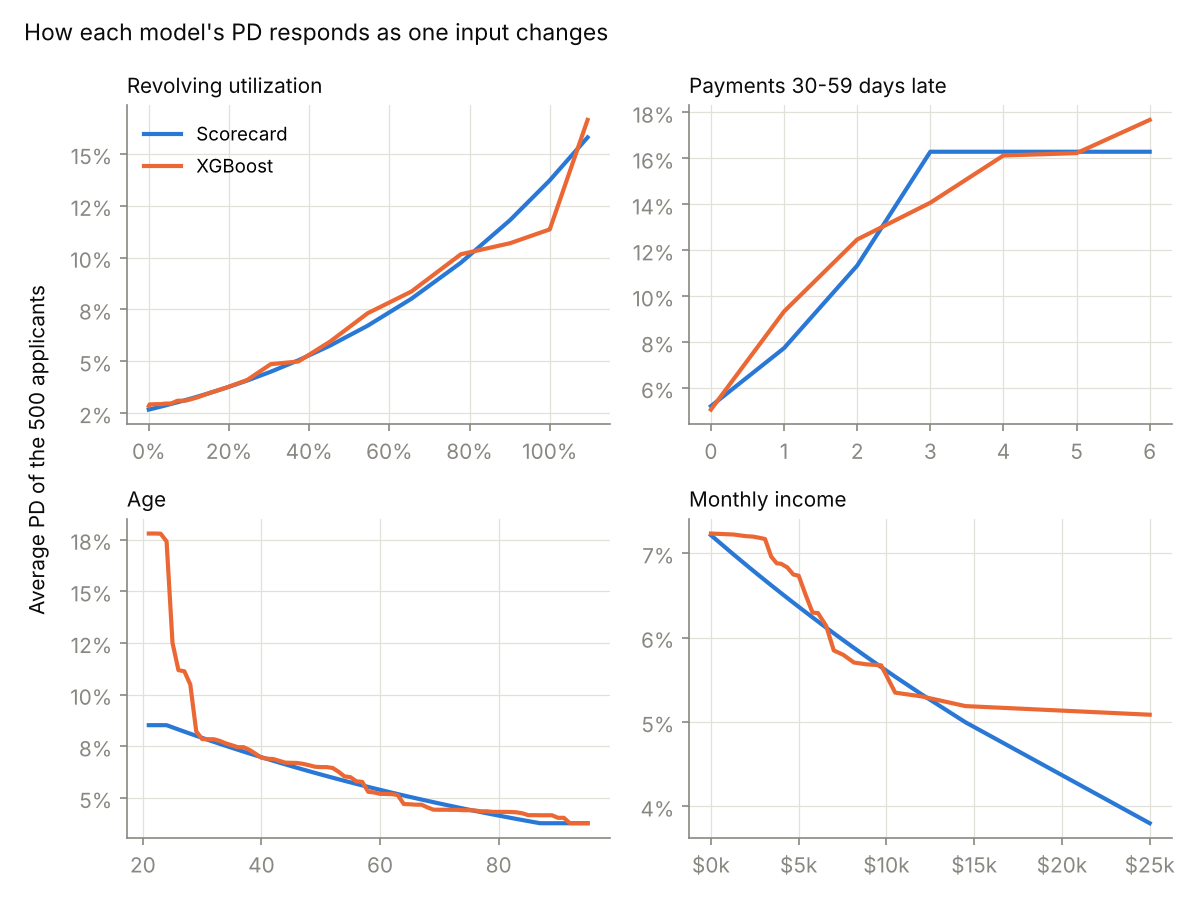
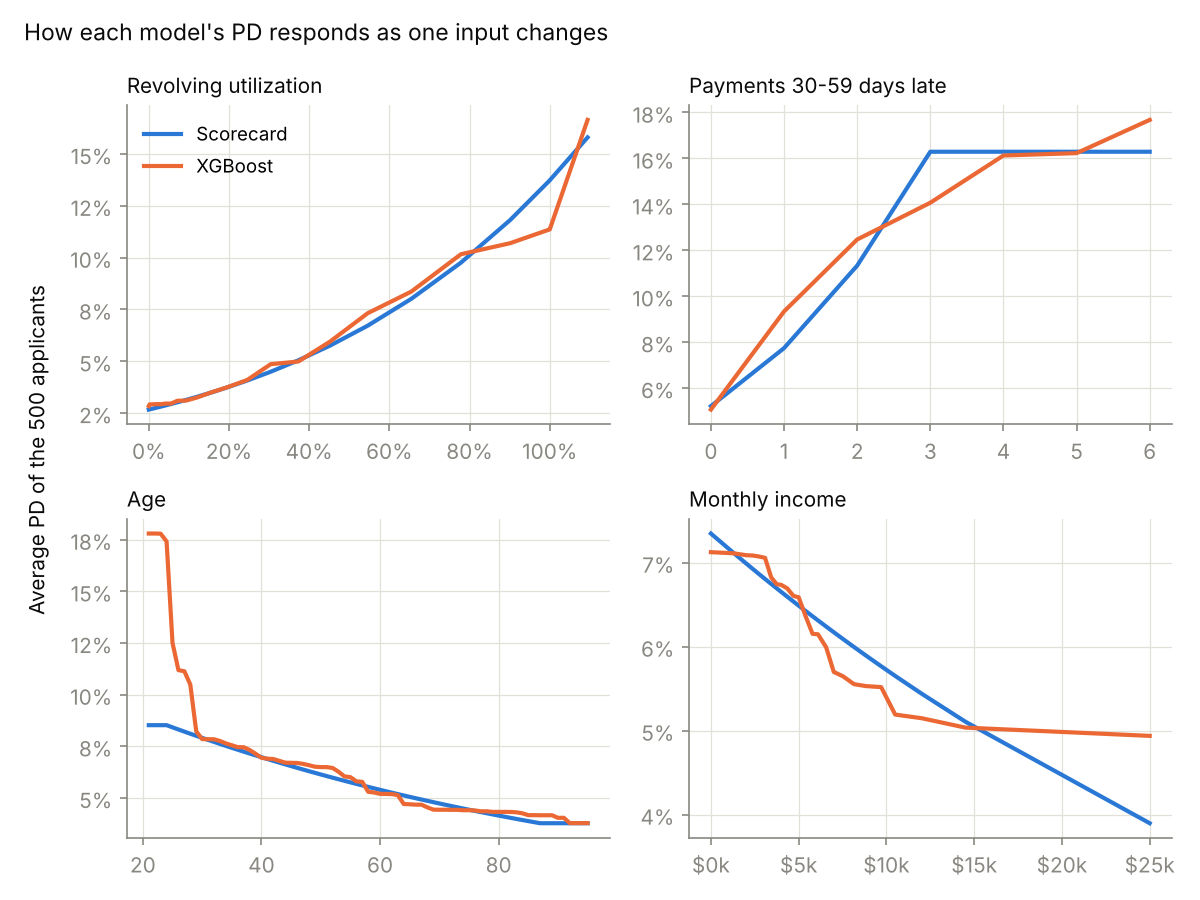
Add drawn-balance scenario, fix income sweep, update report

diff --git a/validate.py b/validate.py
@@ -460,14 +460,20 @@ def check_sensitivity(X_train, X_test, scorecard, challenger):
             grids[col] = np.unique(np.nanquantile(X_train[col], np.linspace(0.01, 0.99, 25)))
 
     print("An applicant counts as a violation if their PD ever moves against the expected")
-    print("direction as the input increases (tolerance 1e-9).\n")
+    print("direction as the input increases (tolerance 1e-9). Both models are built to pass")
+    print("this (one weight per input; monotone constraints), so it confirms the saved files")
+    print("behave as designed rather than independently proving good behaviour. The income")
+    print("sweep uses only applicants who reported an income.\n")
     print(f"{'Input':<30}{'Should':>7}{'Scorecard':>11}{'XGBoost':>9}"
           f"{'Avg PD low->high: Scorecard':>29}{'XGBoost':>18}")
     line("-")
     curves = {}
     wrong_total = {"Scorecard": 0, "XGBoost": 0}
     for col, direction in EXPECTED.items():
-        lr, xg = sweep(sample, col, grids[col], scorecard, challenger)
+        # Setting an income for applicants flagged "income missing" would create
+        # impossible rows, so the income sweep only uses applicants who reported one.
+        base = sample[sample["IncomeMissingFlag"] == 0] if col == "MonthlyIncome" else sample
+        lr, xg = sweep(base, col, grids[col], scorecard, challenger)
         curves[col] = (grids[col], lr.mean(axis=0), xg.mean(axis=0))
         counts = []
         for name, arr in [("Scorecard", lr), ("XGBoost", xg)]:
@@ -477,7 +483,7 @@ def check_sensitivity(X_train, X_test, scorecard, challenger):
             wrong = ((np.diff(arr, axis=1) * direction) < -1e-9).any(axis=1).sum()
             counts.append(int(wrong))
             wrong_total[name] += int(wrong)
-        shown = ["not used" if c is None else f"{c}/{N_SENS}" for c in counts]
+        shown = ["not used" if c is None else f"{c}/{len(base)}" for c in counts]
         lr_txt = (f"{lr.mean(axis=0)[0]:.2%} -> {lr.mean(axis=0)[-1]:.2%}"
                   if col in scorecard["features"] else "not used")
         print(f"{LABEL_SHORT[col]:<30}{'raise' if direction > 0 else 'lower':>7}{shown[0]:>11}"
@@ -486,7 +492,8 @@ def check_sensitivity(X_train, X_test, scorecard, challenger):
     for name in ["Scorecard", "XGBoost"]:
         n_inputs = sum(1 for c in EXPECTED if name == "XGBoost" or c in scorecard["features"])
         record("5 Sensitivity", f"{name}: {n_inputs} key inputs move risk the right way",
-               f"{wrong_total[name]} wrong-direction moves across {N_SENS} applicants",
+               f"{wrong_total[name]} wrong-direction moves across {N_SENS} applicants "
+               f"(confirms the designed constraints are present in the saved model)",
                "Pass" if wrong_total[name] == 0 else "Fail")
 
     # Age 62+: is anyone ever scored riskier at 62+ than at any younger age?
@@ -555,9 +562,14 @@ def check_sensitivity(X_train, X_test, scorecard, challenger):
 # ---------------------------------------------------------------------------
 # Check 6 - Challenge project 2's conclusions
 # ---------------------------------------------------------------------------
-def economics(X, apr=APR, lgd=LGD):
-    """Profit from each borrower if they repay, and loss if they default."""
-    drawn = X["RevolvingUtilizationOfUnsecuredLines"].clip(0, 1).values * CREDIT_LIMIT
+def economics(X, apr=APR, lgd=LGD, drawn_share=None):
+    """Profit from each borrower if they repay, and loss if they default.
+    By default the drawn balance is each borrower's own utilization (project 2's
+    assumption); drawn_share sets the same share of the limit for everyone instead."""
+    if drawn_share is None:
+        drawn = X["RevolvingUtilizationOfUnsecuredLines"].clip(0, 1).values * CREDIT_LIMIT
+    else:
+        drawn = np.full(len(X), drawn_share * CREDIT_LIMIT)
     ead = drawn + CCF * (CREDIT_LIMIT - drawn)
     return drawn * (apr - COST_OF_FUNDS) * YEARS, lgd * ead
 
@@ -581,6 +593,14 @@ def outcome(cutoff, p, y, gain, loss):
     ok = p <= cutoff
     profit = np.where(y[ok] == 1, -loss[ok], gain[ok]).sum() * 100_000 / len(p)
     return ok.mean(), y[ok].mean(), profit
+
+
+def pair_n(d):
+    return f"{d['LR']:,} / {d['XGB']:,}"
+
+
+def pair_u(d):
+    return f"{d['LR']:.1%} / {d['XGB']:.1%}"
 
 
 def best_appr(o):
@@ -636,7 +656,7 @@ def check_project2_claims(X_test, y_test, pd_lr, pd_xgb):
         return f"{fmt(mid)} ({fmt(lo)} to {fmt(hi)})"
 
     pct = lambda v: f"{v:.2%}"
-    pct0 = lambda v: f"{v:+.0%}"
+    pct1 = lambda v: f"{v:+.1%}"
     money = lambda v: f"${v / 1e6:.2f}M"
     num = lambda v: f"{v:+,.0f}"
     results, extras, overshoot = {}, {}, {}
@@ -651,7 +671,7 @@ def check_project2_claims(X_test, y_test, pd_lr, pd_xgb):
         print(f"      {'Default rate (unseen half)':<26}{band(dflt[:, 0], pct):>30}{band(dflt[:, 1], pct):>30}")
         print(f"      {'Profit per 100,000':<26}{band(prof[:, 0], money):>30}{band(prof[:, 1], money):>30}")
         print(f"      XGBoost extra approvals per 100,000: {band(extra, num)}")
-        print(f"      XGBoost profit uplift: {band(uplift, pct0)}; "
+        print(f"      XGBoost profit uplift: {band(uplift, pct1)}; "
               f"XGBoost ahead in {(uplift > 0).mean():.0%} of splits\n")
         if "target" in label:
             over = (dflt > TARGET_DEFAULT).mean(axis=0)
@@ -664,8 +684,9 @@ def check_project2_claims(X_test, y_test, pd_lr, pd_xgb):
     lo, mid, hi = np.percentile(up_t, [5, 50, 95])
     ex = np.median(extras[key_t])
     record("6 Project 2 claims", f"Profit uplift at {TARGET_DEFAULT:.0%} target, out of sample",
-           f"reported +{REPORTED_UPLIFT_2PCT:.0%}; out of sample median {mid:+.0%} "
-           f"(5th-95th {lo:+.0%} to {hi:+.0%}); extra approvals {ex:+,.0f} per 100,000 "
+           f"reported +{REPORTED_UPLIFT_2PCT:.0%}; out of sample median {mid:+.1%} "
+           f"(5th-95th {lo:+.1%} to {hi:+.1%}) under project 2's revenue assumption; "
+           f"extra approvals {ex:+,.0f} per 100,000 "
            f"(reported +{REPORTED_EXTRA_2PCT:,})",
            "Pass" if lo > 0 and abs(mid - REPORTED_UPLIFT_2PCT) < 0.10 else "Monitor")
     up_p = results["Profit-maximising cut-off"]
@@ -707,6 +728,48 @@ def check_project2_claims(X_test, y_test, pd_lr, pd_xgb):
            f"at {TARGET_DEFAULT:.0%} target XGBoost ahead in all ({st['Uplift_at_target'].min():+.0%} to "
            f"{st['Uplift_at_target'].max():+.0%}); at best cut-off {st['Uplift_at_best'].min():+.1%} to "
            f"{st['Uplift_at_best'].max():+.1%}, largest when margins are tightest", "Pass")
+
+    # 6d. The drawn-balance assumption: revenue is utilization x limit x margin, so a
+    #     model that approves heavier credit users earns more by construction.
+    print(f"\n6d. Drawn-balance assumption: where does the profit uplift come from?")
+    print("    Project 2 assumes each borrower keeps drawing their current utilization. Here the")
+    print("    same cut-offs are re-priced with everyone drawing a flat share of their limit.\n")
+    print(f"    {'Drawn balance':<22}{'Approved at 2% (LR / XGB)':>27}{'Avg utilization approved':>27}"
+          f"{'Uplift at 2%':>14}{'At best cut-off':>17}")
+    line("-")
+    util = X_test["RevolvingUtilizationOfUnsecuredLines"].clip(0, 1).values
+    drawn_rows = []
+    for label, share in [("Own utilization", None), ("Flat 30%", 0.30),
+                         ("Flat 50%", 0.50), ("Flat 70%", 0.70)]:
+        g, l = economics(X_test, drawn_share=share)
+        o, appr_n, appr_u = {}, {}, {}
+        for name, p in [("LR", pd_lr), ("XGB", pd_xgb)]:
+            c = cutoff_for_target(p, y_test, TARGET_DEFAULT)
+            ok = p <= c
+            appr_n[name], appr_u[name] = int(ok.sum()), util[ok].mean()
+            o[name + "_t"] = outcome(c, p, y_test, g, l)
+            o[name + "_p"] = outcome(cutoff_for_profit(p, y_test, g, l), p, y_test, g, l)
+        u_t = o["XGB_t"][2] / o["LR_t"][2] - 1
+        u_p = o["XGB_p"][2] / o["LR_p"][2] - 1
+        drawn_rows.append({"Drawn_balance": label, "Approved_LR": appr_n["LR"],
+                           "Approved_XGB": appr_n["XGB"], "Uplift_at_target": u_t,
+                           "Uplift_at_best": u_p})
+        print(f"    {label:<22}{pair_n(appr_n):>27}"
+              f"{pair_u(appr_u):>27}"
+              f"{u_t:>+14.1%}{u_p:>+17.1%}")
+    line("-")
+    dr = pd.DataFrame(drawn_rows)
+    dr.to_csv(OUT_DIR / "drawn_balance_scenarios.csv", index=False)
+    volume = dr.loc[0, "Approved_XGB"] / dr.loc[0, "Approved_LR"] - 1
+    own = dr.loc[0, "Uplift_at_target"]
+    flat = dr.loc[1:, "Uplift_at_target"]
+    print(f"    Volume effect (more approvals at the same default rate): {volume:+.1%}")
+    print(f"    Balance-mix effect (XGBoost approves heavier credit users): {own - flat.mean():+.1%} "
+          f"points, present only if current utilization predicts future balances")
+    record("6 Project 2 claims", "Profit uplift vs the drawn-balance assumption",
+           f"at {TARGET_DEFAULT:.0%} target: {own:+.1%} with own utilization, {flat.min():+.1%} to "
+           f"{flat.max():+.1%} with a flat drawn share; robust part is the volume effect "
+           f"({volume:+.1%} approvals)", "Monitor")
 
     # Chart: out-of-sample profit uplift at the 2% target
     plt = style_charts()

diff --git a/README.md b/README.md
@@ -7,7 +7,7 @@ A model validation review of two credit risk models, structured the way a bank's
 
 Six checks cover replication, the statistical significance of the XGBoost lift, calibration, stability and segments, sensitivity, and an out-of-sample challenge of project 2's business conclusions. They use the same 30,000 hold-out borrowers as both projects plus 101,503 new applicants.
 
-**Result:** 20 detailed findings: 14 Pass, 6 Monitor, 0 Fail. Both models are fit for use with conditions. The review confirmed project 2's headline (XGBoost earns about a third more profit for a selective lender), corrected one of its numbers, and found two issues neither earlier project had caught.
+**Result:** 21 detailed findings: 14 Pass, 7 Monitor, 0 Fail. Both models are fit for use with conditions. The review confirmed that XGBoost approves more applicants at the same default rate, made three corrections to the earlier projects (listed under *Corrections*), and found that **most of project 2's headline profit uplift depends on a revenue assumption** rather than on the model alone.
 
 ## Overall opinion
 
@@ -16,7 +16,7 @@ Six checks cover replication, the statistical significance of the XGBoost lift, 
 | **Scorecard** | Fit for use, with conditions | Its probabilities are systematically off: too high for the safest borrowers and for borrowers who have never been late, too low for the riskiest decile and for borrowers with late payments. Recalibrate before using its PDs for pricing or loss estimates. Refer the age 62+ overstatement for fair-lending review. |
 | **XGBoost** | Fit for use, with conditions | Better ranking (statistically significant) and better calibration. Before relying on its reason codes, add monotone constraints to the three inputs that still zigzag. |
 
-**Which one to use depends on the lending strategy.** For a selective lender (a 2% target default rate), XGBoost earned 34% more profit on unseen borrowers in every one of 200 tests. For a lender approving nearly everyone, it offers no advantage, and the simpler scorecard is just as profitable.
+**Which one to use depends on the lending strategy.** For a selective lender (a 2% target default rate), XGBoost approved **2,907 more applicants per 100,000** on unseen borrowers, ahead in every one of 200 tests: about 4.7% more approvals at the same default rate. Its profit advantage is **between about +5% and +37%**, depending on how much approved borrowers actually borrow (check 6d). For a lender approving nearly everyone, it offers no advantage, and the simpler scorecard is just as profitable.
 
 ## Findings
 
@@ -29,14 +29,15 @@ Six checks cover replication, the statistical significance of the XGBoost lift, 
 | 5 | XGBoost calibration | 2 of 10 deciles outside their range (3 overstates; 9 understates, 10.43% vs 10.60–12.94%), close to what chance alone produces | Monitor |
 | 6 | Stability | Every feature and score PSI below 0.001 on new applicants (a weak test here: see Limitations) | Pass |
 | 7 | Segments | XGBoost is within range in all 11 segments. The scorecard is off in 3: never late (overstates), any late payment (understates), age 62+ (overstates; refer for fair-lending review) | Monitor (scorecard) / Pass (XGBoost) |
-| 8 | Sensitivity, constrained inputs | Zero wrong-direction moves across 500 applicants for both models; no applicant is ever scored riskier at age 62+ | Pass |
+| 8 | Sensitivity, constrained inputs | Zero wrong-direction moves across 500 applicants for both models; no applicant is ever scored riskier at age 62+. This confirms the designed constraints are present in the saved models | Pass |
 | 9 | Sensitivity, unconstrained inputs | XGBoost's open credit lines, real estate loans and dependents move risk in both directions for 447–500 of 500 applicants, zigzagging in sparse values | Monitor |
-| 10 | Project 2: 2% target claim | Reported +37% profit; out of sample **+34%** (5th–95th percentile +28% to +41%); +2,907 extra approvals per 100,000 (reported +3,477) | Pass |
-| 11 | Project 2: profit-maximizing cut-off | Reported +0.1%; **−0.4%** with borrower-level precision; out of sample median −0.8%, XGBoost ahead in only 14% of splits | Monitor |
+| 10 | Project 2: 2% target claim | Out of sample: **+2,907 extra approvals per 100,000** (reported +3,477); profit **+33.6%** (5th–95th percentile +27.7% to +41.5%) under project 2's revenue assumption (reported +37%) | Pass |
+| 11 | Project 2: profit-maximizing cut-off | Reported +0.1%; **−0.4%** with borrower-level precision; out of sample median −0.8% (−2.1% to +0.6%), XGBoost ahead in only 14% of splits | Monitor |
 | 12 | Cut-off at exactly 2% | On unseen borrowers the default rate exceeds 2% in 50% (scorecard) and 42% (XGBoost) of splits | Monitor |
 | 13 | Assumption stress | Under 9 APR / loss-rate scenarios, XGBoost wins at the 2% target in all of them (+34% to +45%); at the profit-maximizing cut-off the difference stays between −0.4% and +4.5% | Pass |
+| 14 | Drawn-balance assumption | At the 2% target, profit uplift is **+37.2%** when each borrower draws their own utilization, but **+4.7%** when everyone draws a flat 30%, 50% or 70%. The robust part is the volume effect (+4.7% approvals); the other +32.4 points hold only if current utilization predicts future balances | Monitor |
 
-All 20 detailed findings are in [`outputs/findings.csv`](outputs/findings.csv).
+All 21 detailed findings are in [`outputs/findings.csv`](outputs/findings.csv).
 
 ## Recommendations
 
@@ -44,8 +45,9 @@ All 20 detailed findings are in [`outputs/findings.csv`](outputs/findings.csv).
 2. **Constrain XGBoost's remaining inputs.** Add monotone constraints for real estate loans and dependents, cap open credit lines at a sensible maximum, and re-check the AUC cost before any reason code relies on them. *(Finding 9)*
 3. **Recalibrate the scorecard if it stays in use.** Its errors follow a pattern (it under-weights payment history and over-predicts the safest borrowers), so an isotonic or Platt recalibration, or WoE binning, should be applied before its PDs drive pricing or expected loss. *(Findings 4, 7)*
 4. **Fair-lending review.** Refer the scorecard's overstatement for the age 62+ group, and run disparate-impact testing on both models across protected groups. *(Finding 7)*
-5. **Correct project 2's reported figures.** At the profit-maximizing cut-off, report "no advantage (−0.4%)" instead of "+0.1%", and quote the 2% target uplift as about +34% out of sample. *(Findings 10, 11)*
-6. **Get out-of-time data for monitoring.** Track PSI on applicants from later periods, with alert thresholds of 0.10 and 0.25, and keep watching XGBoost's decile 9. *(Findings 5, 6)*
+5. **Lead with approvals, report profit as a range.** The claim that holds under any revenue assumption is "about 4.7% more approvals at the same default rate (+2,907 per 100,000 out of sample)". Present profit as "+5% to +37%, depending on how much approved borrowers draw", and test whether current utilization predicts future balances before relying on the upper end. *(Findings 10, 14)*
+6. **Correct project 2's reported figures.** At the profit-maximizing cut-off, report "no advantage (−0.4%)" instead of "+0.1%". *(Finding 11)*
+7. **Get out-of-time data for monitoring.** Track PSI on applicants from later periods, with alert thresholds of 0.10 and 0.25, and keep watching XGBoost's decile 9. *(Findings 5, 6)*
 
 ## Corrections to the earlier projects
 
@@ -54,7 +56,7 @@ This review challenged my own earlier work, and three results changed:
 | Earlier claim | What this review found |
 |---|---|
 | Project 2: XGBoost +0.1% profit at the profit-maximizing cut-off | **−0.4%.** Project 2 searched cut-offs in 1% steps of approval rate; the scorecard's true peak ($45.76M at 92.43% approval) falls between two steps, so its best profit was under-measured ($45.49M). |
-| Project 2: +37% profit at a 2% target default rate | **+34% out of sample** (+28% to +41%). Still large and positive in all 200 tests; the original figure was measured on the same data used to choose the cut-off. |
+| Project 2: +37% profit at a 2% target default rate | **+33.6% out of sample** (+27.7% to +41.5%), measured on data not used to choose the cut-off. More importantly, **about seven-eighths of it depends on the revenue assumption**: with a flat drawn balance, the uplift is +4.7%, which is simply the extra approvals. |
 | Project 1: the riskiest deciles are "within 6–9%" of actual | True in size, but **the riskiest decile's understatement is statistically significant**, and it's in the dangerous direction (under-estimating risk for the riskiest borrowers). |
 
 ## Evidence
@@ -123,13 +125,15 @@ For 500 test applicants, each input was moved across its full range while everyt
 | Payments 30–59, 60–89 and 90+ days late | Raise risk | 0 / 500 each | 0 / 500 each |
 | Debt ratio | Raise risk | not used | 0 / 500 |
 | Age | Lower risk | 0 / 500 | 0 / 500 |
-| Monthly income | Lower risk | 0 / 500 | 0 / 500 |
+| Monthly income | Lower risk | 0 / 393 | 0 / 393 |
 
 No applicant was ever scored riskier at any age from 62 to 95 than at a younger age, under either model.
 
+Both models are built to pass this check: the scorecard has one weight per input, and XGBoost has monotone constraints on these inputs. So the check **confirms that the saved models contain the designed constraints**; it doesn't independently prove good behaviour. The income sweep uses only the 393 sampled applicants who reported an income, since setting an income for someone flagged "income missing" would create impossible rows.
+
 <p align="center"><img src="outputs/sensitivity.png" width="75%" alt="Average PD as utilization, late payments, age and income change, for both models"></p>
 
-The curves show where the models differ. XGBoost puts much more weight on youth: set to age 21, the 500 applicants average a 17.79% PD under XGBoost versus 8.52% under the scorecard, so "age" will appear as a decline reason more often for young applicants. For income, the scorecard keeps lowering risk in a straight line (7.21% → 3.80% from the lowest to the highest income tested), while XGBoost levels off (7.23% → 5.09%).
+The curves show where the models differ. XGBoost puts much more weight on youth: set to age 21, the 500 applicants average a 17.79% PD under XGBoost versus 8.52% under the scorecard, so "age" will appear as a decline reason more often for young applicants. For income, the scorecard keeps lowering risk in a straight line (7.35% → 3.90% from the lowest to the highest income tested), while XGBoost levels off (7.12% → 4.94%).
 
 **The three inputs XGBoost was not constrained on** behave less smoothly (average PD of the 500 applicants):
 
@@ -152,7 +156,7 @@ Open credit lines are U-shaped (zero lines is riskier than 3–6, a plausible "t
 
 <p align="center"><img src="outputs/out_of_sample_uplift.png" width="60%" alt="Out-of-sample profit uplift across 200 splits, all well above zero"></p>
 
-XGBoost's profit uplift is +34% (+28% to +41%), and it comes out ahead in all 200 splits. At the profit-maximizing cut-off, by contrast, XGBoost is ahead in only 14% of splits (median −0.8%).
+XGBoost approves 2,907 more applicants per 100,000 (+1,810 to +4,408), and its profit uplift under project 2's revenue assumption is +33.6% (+27.7% to +41.5%), ahead in all 200 splits. At the profit-maximizing cut-off, by contrast, XGBoost is ahead in only 14% of splits (median −0.8%).
 
 **Assumption stress test.** XGBoost's profit uplift over the scorecard under nine combinations of APR and loss rate (full test set):
 
@@ -170,12 +174,27 @@ XGBoost's profit uplift is +34% (+28% to +41%), and it comes out ahead in all 20
 
 The 2% target conclusion holds in every scenario. At the profit-maximizing cut-off, **XGBoost's advantage grows as margins tighten** (+4.5% at 15% APR and 90% LGD), which confirms the prediction in project 2's Limitations: thinner margins push lenders to be more selective, which is where XGBoost helps.
 
+**Drawn-balance assumption (6d).** APR and loss rate turn out not to be the inputs that drive the result. Project 2 assumed each approved borrower draws their current utilization of a $10,000 limit, so interest revenue rises with utilization, and XGBoost approves heavier credit users. Re-pricing the same cut-offs with everyone drawing a flat share of their limit:
+
+| Drawn balance | Approved at 2% (scorecard / XGBoost) | Average utilization of approved | Uplift at 2% target | Uplift at best cut-off |
+|---|---|---|---|---|
+| Own utilization (project 2) | 22,074 / 23,117 | 15.4% / 19.3% | **+37.2%** | −0.4% |
+| Flat 30% | 22,074 / 23,117 | 15.4% / 19.3% | +4.7% | +1.1% |
+| Flat 50% | 22,074 / 23,117 | 15.4% / 19.3% | +4.7% | +0.3% |
+| Flat 70% | 22,074 / 23,117 | 15.4% / 19.3% | +4.7% | +0.0% |
+
+The uplift splits into two parts:
+- **Volume effect, +4.7%:** XGBoost approves more applicants at the same default rate. This holds under any revenue assumption.
+- **Balance-mix effect, +32.4 points:** XGBoost approves borrowers who carry larger balances. This is something the model genuinely does, but it is only worth money if today's utilization predicts future balances, which this dataset can't show.
+
+Revenue scaling with balances is realistic for credit cards, so project 2's assumption is defensible; it just needs to be stated as the main driver of the profit figure, not hidden among other assumptions.
+
 ## Limitations of this validation
 
 - **This is a self-review, not an independent validation.** I built both models. A real model risk function is organizationally separate from the developers; this review follows their method, and deliberately challenges my own earlier claims, but it can't provide that independence.
 - **The drift test is weak here.** Kaggle appears to have split its data at random, so the "new applicants" are the same population and near-zero PSI is expected. A meaningful drift test needs applicants from a later time period.
 - **No reject inference.** The dataset only contains borrowers who received credit, so neither model can be tested on applicants a lender actually declined.
-- **Business assumptions are illustrative.** Profit figures depend on the assumed credit limit, APR, cost of funds and loss rates; the stress test covers a range, not every possibility.
+- **Business assumptions are illustrative.** Profit figures depend on the assumed credit limit, APR, cost of funds, loss rates and, above all, the drawn balance (check 6d); the stress tests cover a range, not every possibility.
 - **No fair-lending testing.** The review flags the age 62+ result but does not test disparate impact across protected groups, which the dataset can't support beyond age.
 - **Multiple comparisons.** With many tests at 95% confidence, a few flags are expected by chance. Ratings consider patterns (for example, the scorecard's systematic decile errors), not single flags.
 
@@ -185,8 +204,8 @@ The 2% target conclusion holds in every scenario. At the profit-maximizing cut-o
 2. **Lift** — paired bootstrap, 1,000 resamples, 95% percentile intervals.
 3. **Calibration** — exact (Clopper–Pearson) 95% binomial interval for each decile's default rate.
 4. **Stability** — PSI with 10 bins from the training data (missing values as their own bin), training vs test (control) and training vs `cs-test.csv`; calibration and AUC for 11 segments.
-5. **Sensitivity** — 500 applicants (excluding data-entry codes); each input swept across its range with others fixed; checks for wrong-direction moves and the age 62+ rule.
-6. **Project 2 challenge** — cut-off search at borrower level; cut-offs chosen on one half and applied to the other over 200 stratified splits; a 3 × 3 grid of APR and LGD.
+5. **Sensitivity** — 500 applicants (excluding data-entry codes; the income sweep also excludes applicants with no reported income); each input swept across its range with others fixed; checks for wrong-direction moves and the age 62+ rule.
+6. **Project 2 challenge** — cut-off search at borrower level; cut-offs chosen on one half and applied to the other over 200 stratified splits; a 3 × 3 grid of APR and LGD; flat drawn-balance scenarios of 30%, 50% and 70%.
 
 Both models use the same cleaning and the same stratified 80/20 split (`random_state=42`) as projects 1 and 2.
 
@@ -201,13 +220,13 @@ credit-model-validation/
 │   └── xgboost/             # project 2 (commit 02750de): xgboost_model.json
 ├── data/                    # credit_data.csv and cs-test.csv (not tracked)
 └── outputs/
-    ├── findings.csv          # all 20 detailed findings and ratings
+    ├── findings.csv          # all 21 detailed findings and ratings
     ├── auc_lift_bootstrap.png
     ├── calibration_error_bars.png
     ├── segment_calibration.png
     ├── sensitivity.png
     ├── out_of_sample_uplift.png
-    ├── psi.csv, segments.csv, assumption_stress.csv
+    ├── psi.csv, segments.csv, assumption_stress.csv, drawn_balance_scenarios.csv
     └── run_output.txt        # full console output of the latest run
 ```
 
